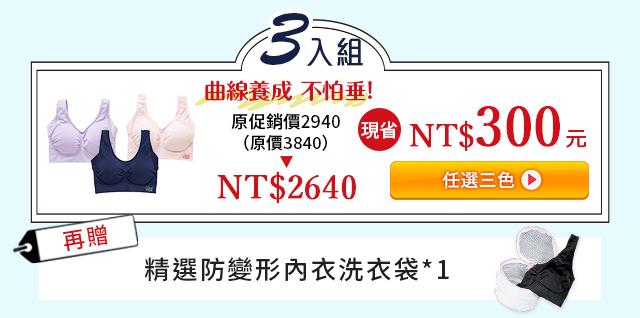
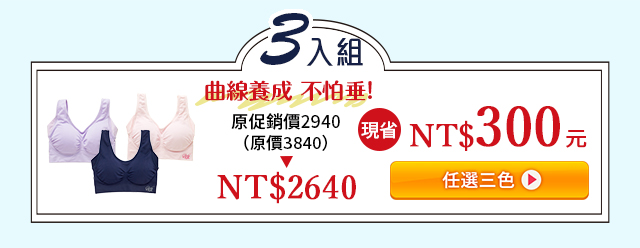
20200902_offer update

diff --git a/css/style.css b/css/style.css
@@ -88,7 +88,7 @@
     margin: 0 auto;
     position: relative;
     width: 640px;
-    height: 318px;
+    height: 248px;
     background: url(../images/vgdm30/set03.jpg);
     background-position: center;
     background-size: cover;
@@ -96,9 +96,9 @@
 
 .teiki3 img {
     position: absolute;
-    width: 31%;
+    width: 32%;
     right: 8%;
-    bottom: 37%;
+    bottom: 19%;
 }
 
 .teiki2 {
